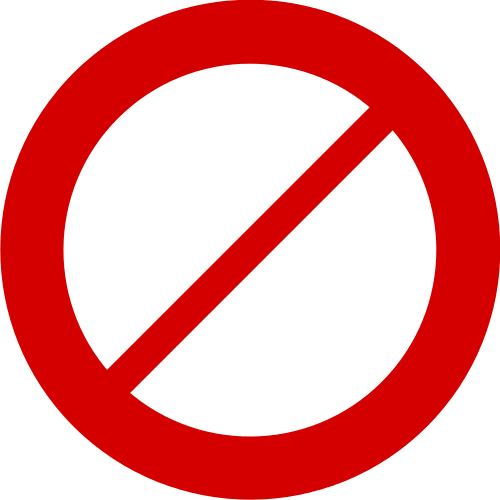
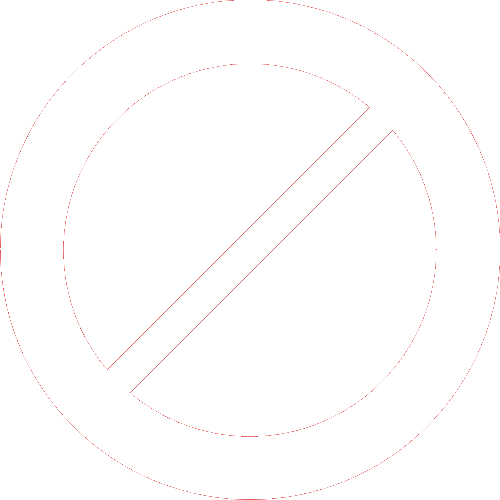
- Added and updated all members page with edit, suspend and delete functionality - Added images

diff --git a/FilmRecommendationSystem_Prototype/StyleSheet.css b/FilmRecommendationSystem_Prototype/StyleSheet.css
@@ -469,19 +469,10 @@ td {
 }
 
 
-
-
-
 .container-tableaction:hover {
     opacity: 0.1;
 }
 
-
-.textbox-transparent {
-    background: none;
-    color: red;
-    border-style: solid;
-}
 
 .Addnewfilm-button {
     display: flex;
@@ -834,4 +825,11 @@ td {
 .getrecommendations-button {
     background-color: limegreen;
     line-height: 60px;
+}
+
+
+.textbox-transparent {
+    background: none;
+    color: white;
+    border: 0px none;
 }

diff --git a/FilmRecommendationSystem_Prototype/AllStaffMembers.aspx.cs b/FilmRecommendationSystem_Prototype/AllStaffMembers.aspx.cs
@@ -1,0 +1,14 @@
+using System;
+using System.Collections.Generic;
+using System.Linq;
+using System.Web;
+using System.Web.UI;
+using System.Web.UI.WebControls;
+
+public partial class AllStaffMembers : System.Web.UI.Page
+{
+    protected void Page_Load(object sender, EventArgs e)
+    {
+
+    }
+}
